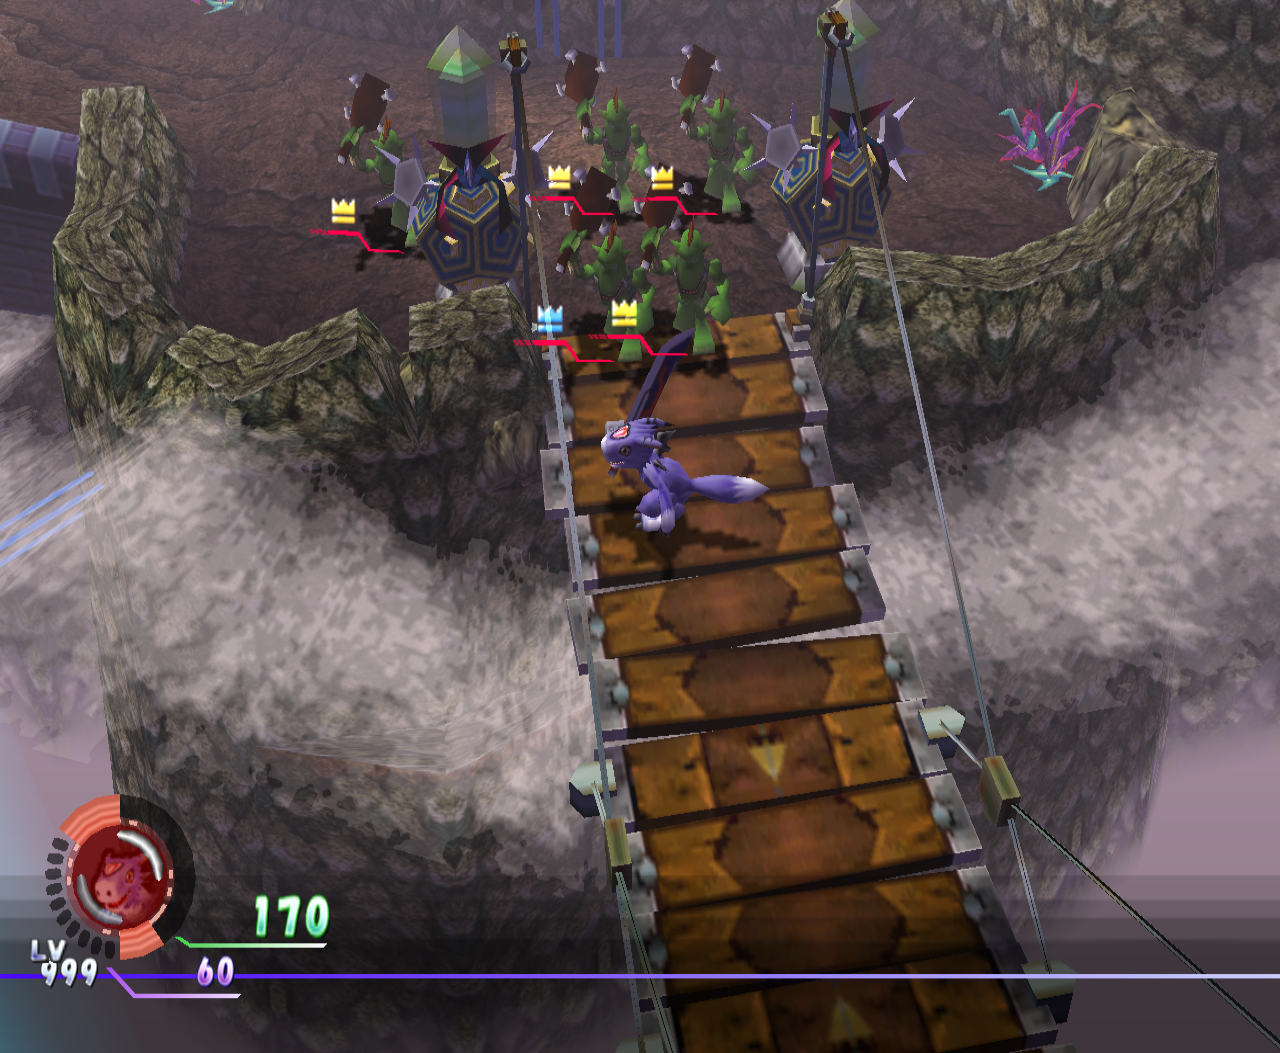
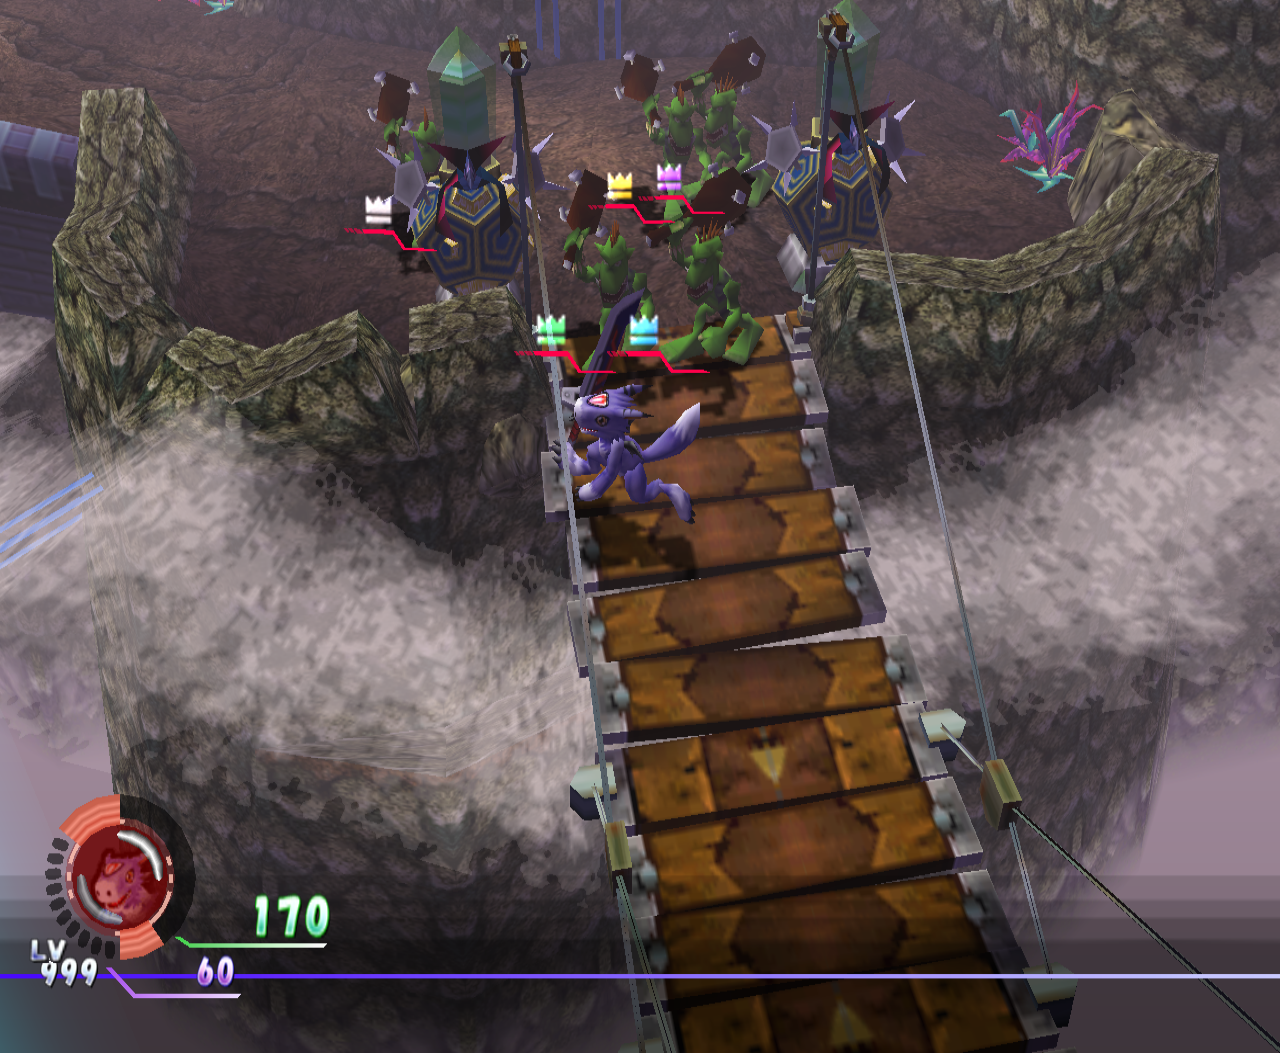
Show all five crown colours in gameplay comparison

diff --git a/README.md b/README.md
@@ -43,11 +43,12 @@ on Normal difficulty:
 
 | Original game | Crown Mod — four-player spawns and random crown colours |
 | --- | --- |
-| ![Two Goburimon at the first Goblin Pass bridge in the original game](docs/images/goblin-pass-original.png) | ![Five Goburimon at the same bridge with four-player spawns, showing blue and yellow crowns](docs/images/goblin-pass-crown-mod.png) |
+| ![Two Goburimon at the first Goblin Pass bridge in the original game](docs/images/goblin-pass-original.png) | ![Five Goburimon at the same bridge with four-player spawns, showing green, blue, pink, white and yellow crowns](docs/images/goblin-pass-crown-mod.png) |
 
 This encounter has **two enemies in the original game and five with four-player
 spawns enabled**. Random crown colours change the icons only; the colours do not
-indicate different enemy stats or drops. Click either image for the full-size view.
+indicate different enemy stats or drops. Colours can repeat; this example shows
+all five available colours. Click either image for the full-size view.
 
 Gameplay captured from the GameCube version in Dolphin.
 
